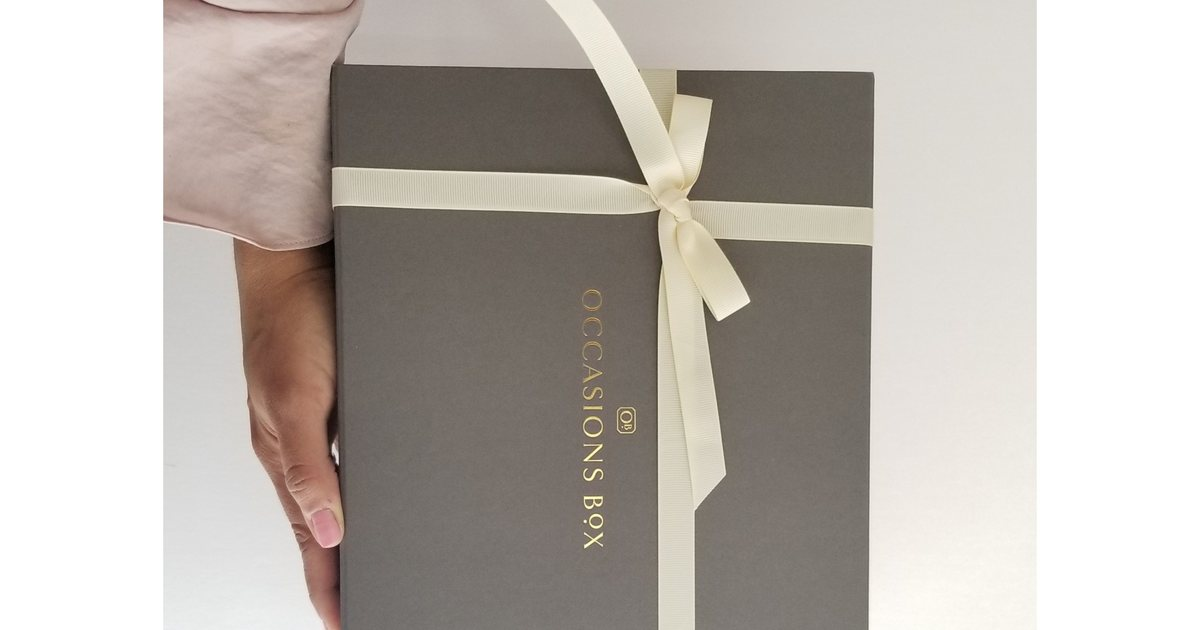
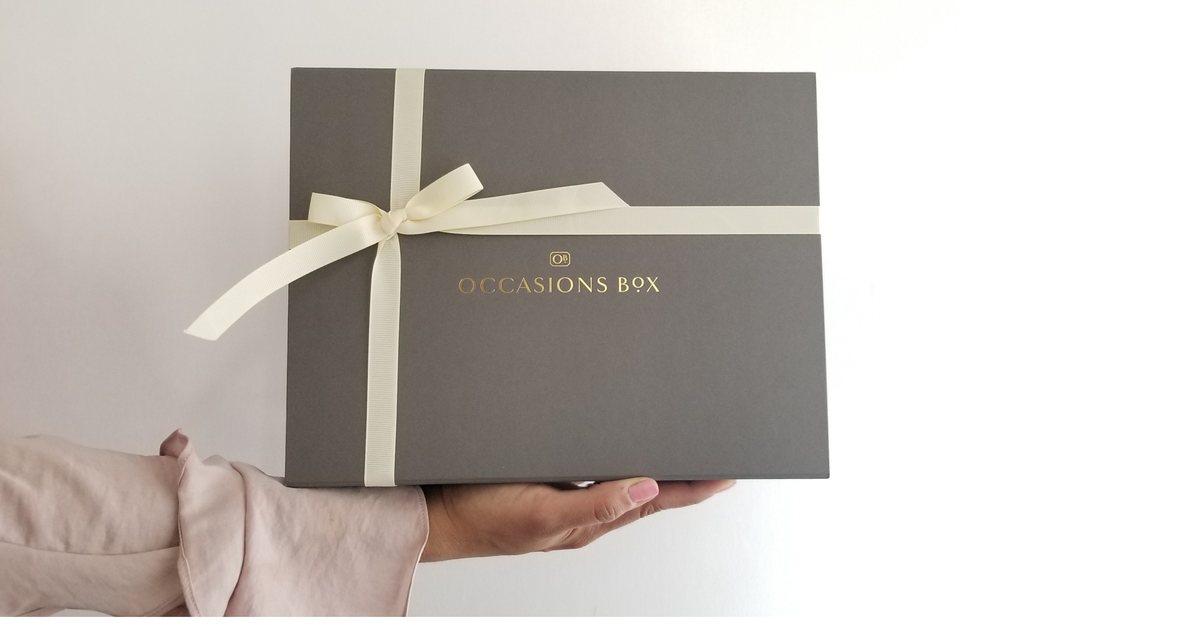
Turn the /about photo the right way up
The camera recorded this frame on its side, so the box stood on end and the
gold lid stamp ran bottom to top. Rotated upright it is a box resting on an
open palm with OCCASIONS BOX reading straight across, which is what the shot
was always of. The stored original is rotated too, so the page copy and the
share card both come out of it the right way.

Cropped to the box and the hand: at full frame the white studio sweep filled
most of the picture and read as empty space against the page's cream ground.

.about-image img now follows the file's own shape instead of a fixed 400px
height. At the desktop column width that renders identically to before, but
it stops the narrower and the stacked breakpoints cropping an already-cropped
photo a second time, which is how the box loses its own edges.

Claude-Session: https://claude.ai/code/session_01TxBmwVpNciJocDRpmjnHxx

diff --git a/site/assets/css/site.css b/site/assets/css/site.css
@@ -236,7 +236,14 @@ html.anim .fade-up { opacity: 0; transform: translateY(30px); }
   border-radius: 16px; overflow: hidden;
   box-shadow: 0 20px 60px rgba(0,0,0,0.06);
 }
-.about-image img { width: 100%; height: 400px; object-fit: cover; }
+/* Follow the file's own shape rather than a fixed height. At the desktop
+   column width this renders identically to the old 400px, but it stops the
+   narrower and the stacked breakpoints cropping an already-cropped photo a
+   second time and cutting the box out of its own picture. */
+.about-image img {
+  display: block; width: 100%; height: auto;
+  aspect-ratio: 1300 / 1005; object-fit: cover;
+}
 .about-services {
   display: grid; grid-template-columns: 1fr 1fr;
   gap: 12px; margin-top: 24px;

diff --git a/site/about.html b/site/about.html
@@ -205,7 +205,7 @@
   <div class="about-inner">
   <div class="about-grid">
     <div class="about-image fade-up">
-      <img src="/assets/img/ob-in-hand.jpg" width="1100" height="825" loading="lazy"
+      <img src="/assets/img/ob-in-hand.jpg" width="1300" height="1005" loading="lazy"
            alt="A signature charcoal Occasions Box with a gold embossed lid and ivory ribbon, held in one hand">
     </div>
     <div class="fade-up">

diff --git a/tools/sections/about.html b/tools/sections/about.html
@@ -3,7 +3,7 @@
   <div class="about-inner">
   <div class="about-grid">
     <div class="about-image fade-up">
-      <img src="/assets/img/ob-in-hand.jpg" width="1100" height="825" loading="lazy"
+      <img src="/assets/img/ob-in-hand.jpg" width="1300" height="1005" loading="lazy"
            alt="A signature charcoal Occasions Box with a gold embossed lid and ivory ribbon, held in one hand">
     </div>
     <div class="fade-up">

diff --git a/tools/make-og-cards.py b/tools/make-og-cards.py
@@ -26,7 +26,7 @@ CARDS = {
     "shop":            ("site/assets/img/0B0_5067-750w.jpg",         0.50),
     "custom-gifting":  ("tools/og-sources/branded-run.jpg",          0.50),
     "concierge":       ("site/assets/img/0B0_4910-750w.jpg",         0.50),
-    "about":           ("tools/og-sources/in-hand.jpg",              0.33),
+    "about":           ("tools/og-sources/in-hand.jpg",              0.62),
     "contact":         ("site/assets/img/0B0_5183-750w.jpg",         0.50),
 }
 
